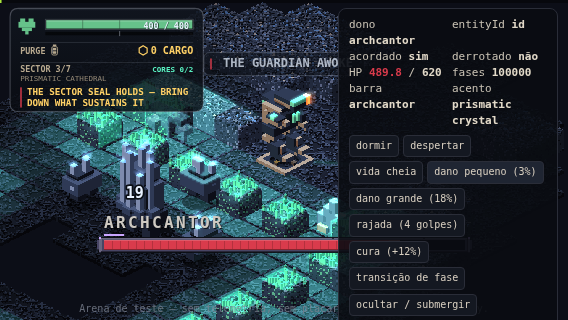
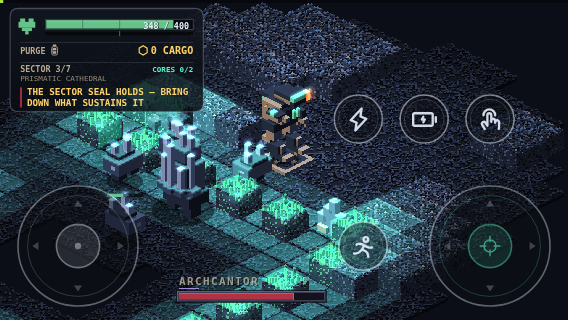
fix(survival): a barra de chefe em paisagem de toque fica discreta
Num celular deitado a tela inteira e a luta, e a barra no centro da linha
dos manches, com nome de 13 px e vida de 9 px, disputava o olhar com ela.
A postura de paisagem passa a ser a DISCRETA: vida de 7 px, nome de 11 px,
sem terminacoes, ate 46% da largura, encostada na linha de baixo dos
manches e desenhada atenuada (alfa 0,8, sem facetas, nome mais apagado).
`BossHealthBarLayout.quiet` marca a postura; desktop e retrato nao mudam.

Claude-Session: https://claude.ai/code/session_01FSKVZh2Jru94onApbU2hKc

diff --git a/packages/voxelyn-survival/src/client/boss-health-bar-layout.ts b/packages/voxelyn-survival/src/client/boss-health-bar-layout.ts
@@ -14,9 +14,10 @@
 //                 comandos. E a postura monumental: a moldura inteira, as
 //                 terminacoes em degraus, o nome em 18 px.
 //   PAISAGEM    — na FAIXA LIVRE entre o manche de movimento e o grupo de
-//   (toque)       botoes da direita, na linha dos manches. E mais estreita do
-//                 que a direcao pede, porque a faixa e o que ha: os ornamentos
-//                 encolhem antes da vida.
+//   (toque)       botoes da direita, encostada na linha de BAIXO dos manches.
+//                 E a postura DISCRETA: menor, sem terminacoes, atenuada. Num
+//                 celular deitado a tela inteira e a luta, e a barra informa
+//                 sem disputar o olhar com ela.
 //   RETRATO     — quase a largura inteira, ACIMA da faixa dos controles.
 //   (toque)
 //
@@ -26,7 +27,7 @@
 import { hudScale } from './hud-layout';
 import type { HudRect } from './hud-layout';
 import type { SafeInsets } from './module-layout';
-import { touchControlGeometry } from './input';
+import { MOVE_JOYSTICK_RADIUS, touchControlGeometry } from './input';
 import { DESKTOP_CONTROL_BAR_RESERVE } from './desktop-controls';
 
 export type BossHealthBarOrnament = 'full' | 'reduced' | 'none';
@@ -51,6 +52,12 @@ export type BossHealthBarLayout = {
   scale: number;
   orientation: 'landscape' | 'portrait';
   ornament: BossHealthBarOrnament;
+  /**
+   * A postura DISCRETA (paisagem de toque): a peca e menor, sem terminacoes,
+   * encostada na borda de baixo, e o desenho a atenua — num celular deitado a
+   * tela inteira e a luta, e a barra nao pode disputar com ela.
+   */
+  quiet: boolean;
   /** O retangulo INTEIRO da peca — nome, moldura e terminacoes. */
   x: number;
   y: number;
@@ -87,6 +94,7 @@ const hidden = (scale: number, orientation: 'landscape' | 'portrait'): BossHealt
   scale,
   orientation,
   ornament: 'none',
+  quiet: false,
   x: 0,
   y: 0,
   width: 0,
@@ -113,7 +121,9 @@ const rhythmFor = (
   if (posture === 'desktop') {
     return { lifeH: scale < 1 ? 10 : 13, fontPx: scale < 1 ? 16 : 18, ornament };
   }
-  if (posture === 'landscape') return { lifeH: 9, fontPx: 13, ornament };
+  // Paisagem de toque: a menor das tres. Vida de 7 px e nome de 11 px — legivel
+  // num celular deitado, e nada alem disso.
+  if (posture === 'landscape') return { lifeH: 7, fontPx: 11, ornament: 'none' };
   return { lifeH: 10, fontPx: 14, ornament };
 };
 
@@ -134,6 +144,7 @@ const assemble = (
   rhythm: Rhythm,
   scale: number,
   orientation: 'landscape' | 'portrait',
+  quiet = false,
 ): BossHealthBarLayout => {
   const pad = ORNAMENT_PAD[rhythm.ornament];
   const width = round(totalWidth);
@@ -166,6 +177,7 @@ const assemble = (
     scale,
     orientation,
     ornament: rhythm.ornament,
+    quiet,
     x,
     y,
     width,
@@ -242,19 +254,28 @@ export const bossHealthBarLayout = (input: BossHealthBarLayoutInput): BossHealth
     );
   }
 
-  // PAISAGEM: a faixa livre entre os controles, na linha dos manches.
+  // PAISAGEM: a faixa livre entre os controles, ENCOSTADA na borda de baixo.
+  //
+  // Discreta de proposito. Num celular deitado a tela inteira e a luta: a
+  // peca fica pequena (vida de 7 px, nome de 11 px, sem terminacoes), nao
+  // passa de 46% da largura, e pousa na linha de baixo dos manches — o lugar
+  // da tela em que o olho menos esta — em vez de no centro deles.
   const laneLeft = Math.max(usableLeft, g.laneLeft + 6);
   const laneRight = Math.min(usableRight, g.laneRight - 6);
   const laneWidth = laneRight - laneLeft;
-  if (laneWidth >= 140) {
-    const ornament: BossHealthBarOrnament = laneWidth >= 260 ? 'full' : 'reduced';
-    const rhythm = rhythmFor(ornament, 'landscape', scale);
-    const width = Math.min(laneWidth, round(vw * 0.68));
-    // A moldura CENTRADA na altura dos manches: a barra e mais uma peca da
-    // fileira do rodape, nao um painel flutuando sobre eles.
-    const frameH = rhythm.lifeH + ORNAMENT_PAD[ornament].y * 2;
-    const frameBottom = round(g.aimY + frameH / 2);
-    return assemble((laneLeft + laneRight) / 2, frameBottom, width, rhythm, scale, orientation);
+  if (laneWidth >= 120) {
+    const rhythm = rhythmFor('none', 'landscape', scale);
+    const width = Math.min(laneWidth, round(vw * 0.46));
+    const frameBottom = round(g.moveY + MOVE_JOYSTICK_RADIUS - 4);
+    return assemble(
+      (laneLeft + laneRight) / 2,
+      frameBottom,
+      width,
+      rhythm,
+      scale,
+      orientation,
+      true,
+    );
   }
   // Faixa estreita demais (tela minuscula): sobe para cima dos controles, sem
   // terminacoes, e ainda assim inteira e legivel.
@@ -265,10 +286,11 @@ export const bossHealthBarLayout = (input: BossHealthBarLayoutInput): BossHealth
       assemble(
         (left + usableRight) / 2,
         frameBottom,
-        Math.min(usableRight - left, round(vw * 0.68)),
+        Math.min(usableRight - left, round(vw * 0.5)),
         rhythm,
         scale,
         orientation,
+        true,
       ),
     usableLeft,
     input.hudPanel,

diff --git a/packages/voxelyn-survival/src/tests/boss-health-bar-layout.test.ts b/packages/voxelyn-survival/src/tests/boss-health-bar-layout.test.ts
@@ -115,7 +115,7 @@ describe('desktop', () => {
 describe('toque em paisagem (568x320)', () => {
   const W = 568;
   const H = 320;
-  it('usa a faixa livre entre os controles, sem cobrir nenhum', () => {
+  it('usa a faixa livre entre os controles, discreta e encostada embaixo, sem cobrir nenhum', () => {
     const layout = bossHealthBarLayout({
       viewportWidth: W,
       viewportHeight: H,
@@ -125,16 +125,41 @@ describe('toque em paisagem (568x320)', () => {
     expect(layout.visible).toBe(true);
     integers(layout);
     expect(layout.orientation).toBe('landscape');
+    expect(layout.quiet).toBe(true);
+    expect(layout.ornament).toBe('none');
+    expect(layout.endCap).toBe(0);
     const piece = { x: layout.x, y: layout.y, width: layout.width, height: layout.height };
     for (const control of touchRects(W, H)) expect(rectsOverlap(piece, control)).toBe(false);
-    // A vida entre 8 e 11 px, o nome entre 12 e 15.
-    expect(layout.bed.height).toBeGreaterThanOrEqual(8);
-    expect(layout.bed.height).toBeLessThanOrEqual(11);
-    expect(layout.name.fontPx).toBeGreaterThanOrEqual(12);
-    expect(layout.name.fontPx).toBeLessThanOrEqual(15);
-    // Na linha dos manches.
+    // Menor que as outras posturas: vida de 6 a 8 px, nome de 10 a 12, ate
+    // metade da largura.
+    expect(layout.bed.height).toBeGreaterThanOrEqual(6);
+    expect(layout.bed.height).toBeLessThanOrEqual(8);
+    expect(layout.name.fontPx).toBeGreaterThanOrEqual(10);
+    expect(layout.name.fontPx).toBeLessThanOrEqual(12);
+    expect(layout.width).toBeLessThanOrEqual(W * 0.5);
+    // Na linha de BAIXO dos manches, nao no centro deles: fora da luta.
     const g = touchControlGeometry(W, H);
-    expect(Math.abs(layout.frame.y + layout.frame.height / 2 - g.aimY)).toBeLessThanOrEqual(2);
+    expect(layout.frame.y).toBeGreaterThan(g.moveY);
+    expect(layout.frame.y + layout.frame.height).toBeLessThanOrEqual(
+      g.moveY + MOVE_JOYSTICK_RADIUS,
+    );
+    // As posturas grandes nao sao discretas.
+    expect(
+      bossHealthBarLayout({
+        viewportWidth: 1366,
+        viewportHeight: 768,
+        safe: NO_SAFE,
+        touchMode: false,
+      }).quiet,
+    ).toBe(false);
+    expect(
+      bossHealthBarLayout({
+        viewportWidth: 320,
+        viewportHeight: 568,
+        safe: NO_SAFE,
+        touchMode: true,
+      }).quiet,
+    ).toBe(false);
   });
 
   it('a mesma geometria que os botoes reais usam', () => {
@@ -155,7 +180,7 @@ describe('toque em paisagem (568x320)', () => {
       touchMode: true,
     });
     expect(layout.ornament).not.toBe('full');
-    expect(layout.bed.height).toBeGreaterThanOrEqual(8);
+    expect(layout.bed.height).toBeGreaterThanOrEqual(6);
   });
 });
 

diff --git a/packages/voxelyn-survival/src/client/boss-health-bar.ts b/packages/voxelyn-survival/src/client/boss-health-bar.ts
@@ -588,7 +588,9 @@ export const drawBossHealthBar = (
   const ritual = view.entry.ritual && entryP < 1;
 
   // O alfa GLOBAL da peca: o fade da entrada sem ritual e o afundar da morte.
-  let alpha = view.entry.ritual ? 1 : entryP;
+  // Na postura discreta (paisagem de toque) a peca inteira e atenuada: ela
+  // informa sem pedir o olhar.
+  let alpha = (view.entry.ritual ? 1 : entryP) * (layout.quiet ? 0.8 : 1);
   if (death) alpha *= 1 - easeInCubic(death.exit);
   if (alpha <= 0) return;
 
@@ -730,10 +732,13 @@ export const drawBossHealthBar = (
       ctx.fillStyle = BOSS_BAR_LIFE_DARK;
       ctx.fillRect(bedX, bedY + bedH - facet, lifeW, facet);
       // Facetas: uma coluna escura a cada 8 px, a grade que da o voxel sem
-      // quebrar o comprimento em quadradinhos.
-      ctx.fillStyle = hexAlpha(BOSS_BAR_LIFE_DARK, 0.45);
-      for (let x = bedX + 8; x < bedX + lifeW - 1; x += 8)
-        ctx.fillRect(x, bedY + facet, 1, bedH - facet * 2);
+      // quebrar o comprimento em quadradinhos. A postura discreta as dispensa:
+      // numa vida de 7 px elas virariam textura.
+      if (!layout.quiet) {
+        ctx.fillStyle = hexAlpha(BOSS_BAR_LIFE_DARK, 0.45);
+        for (let x = bedX + 8; x < bedX + lifeW - 1; x += 8)
+          ctx.fillRect(x, bedY + facet, 1, bedH - facet * 2);
+      }
       // A ponta: um pixel mais claro onde a vida termina.
       ctx.fillStyle = BOSS_BAR_LIFE_LIGHT;
       ctx.fillRect(bedX + lifeW - 1, bedY, 1, bedH);
@@ -810,7 +815,8 @@ export const drawBossHealthBar = (
     const nameFade = death ? 1 - easeInCubic(clamp01(death.exit / 0.5)) : 1;
     ctx.globalAlpha = alpha * nameAlpha * nameFade;
     const intensify = view.phase !== null ? Math.sin(clamp01(view.phase) * Math.PI) : 0;
-    const color = intensify > 0 ? mixHex(NAME_COLOR, acc.glow, intensify * 0.6) : NAME_COLOR;
+    const base = layout.quiet ? mixHex(NAME_COLOR, PAL.bone, 0.6) : NAME_COLOR;
+    const color = intensify > 0 ? mixHex(base, acc.glow, intensify * 0.6) : base;
     drawSpacedName(ctx, view.name, layout, font, color);
 
     // O ACENTO MATERIAL sob o nome: apaga na morte, acende no pulso.

diff --git a/docs/bosses/voxelyn-survival-boss-health-bar.md b/docs/bosses/voxelyn-survival-boss-health-bar.md
@@ -148,11 +148,11 @@ amarrotada lo-fi dos chefes: é interface). Reconexão não toca nada.
 
 `bossHealthBarLayout` resolve três posturas:
 
-| Postura        | Largura                          | Vida  | Nome  | Onde                                            |
-| -------------- | -------------------------------- | ----- | ----- | ----------------------------------------------- |
-| Desktop        | 66 % da tela, teto 860 px        | 13 px | 18 px | centrada, acima da barra de comandos (`+16 px`) |
-| Móvel paisagem | a faixa livre entre os controles | 9 px  | 13 px | na linha dos manches; ornamento reduzido        |
-| Móvel retrato  | 94 % da tela, margens de 12 px   | 10 px | 14 px | acima da borda mais alta dos controles          |
+| Postura        | Largura                                            | Vida  | Nome  | Onde                                                                                                          |
+| -------------- | -------------------------------------------------- | ----- | ----- | ------------------------------------------------------------------------------------------------------------- |
+| Desktop        | 66 % da tela, teto 860 px                          | 13 px | 18 px | centrada, acima da barra de comandos (`+16 px`)                                                               |
+| Móvel paisagem | a faixa livre entre os controles, até 46 % da tela | 7 px  | 11 px | encostada na linha de baixo dos manches; sem terminações; peça atenuada (a postura DISCRETA: a tela é a luta) |
+| Móvel retrato  | 94 % da tela, margens de 12 px                     | 10 px | 14 px | acima da borda mais alta dos controles                                                                        |
 
 Sempre dentro da área segura; se a peça tocar o painel de status (tela muito
 baixa), ela recua para a direita dele; se nem assim couber, não é desenhada.
